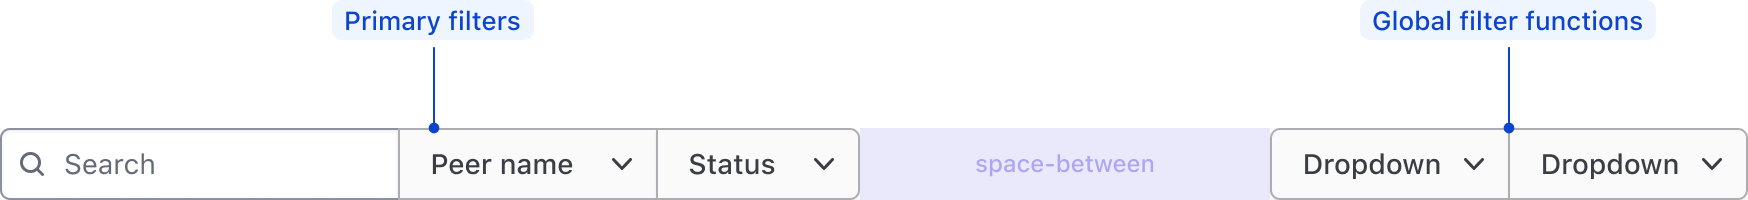
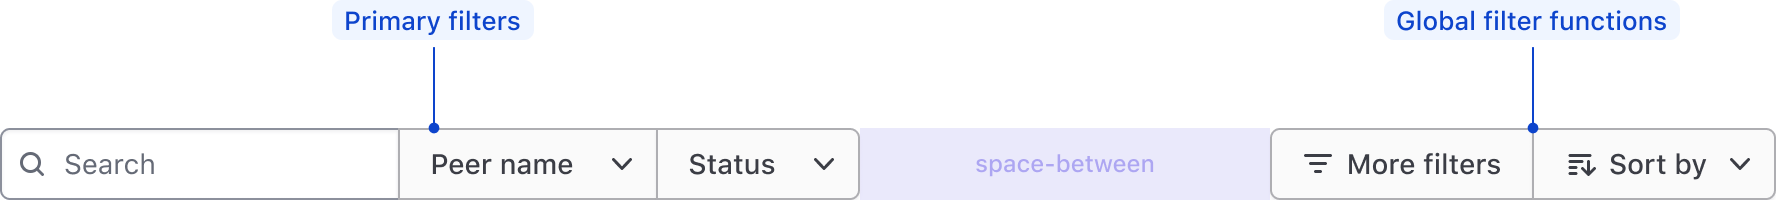
Cleaning up hierarchy and reorganizing

diff --git a/website/docs/patterns/filter-patterns/partials/specifications/specifications.md b/website/docs/patterns/filter-patterns/partials/specifications/specifications.md
@@ -4,7 +4,48 @@ Helios does not publish any components that account for the layout of filter ele
 
 !!!
 
-## Filter bar anatomy
+## Pattern types
+
+Orient filter patterns in either a horizontal filter bar, or a vertical filter sidebar. The core anatomy of a filter pattern remains largely the same regardless of the orientation, layout, or positioning method.
+
+![Filter pattern anatomy](/assets/patterns/filter-patterns/pattern-anatomy-filters.png =1288x*)
+
+| Element | Usage |
+|---------|-------|
+| Filters | Required; can be represented by a filter bar or a filter sidebar. |
+| Applied filters | Required |
+| Data set | Required |
+| Pagination | Optional; recommended for larger data sets. |
+
+### Filter bar orientation
+
+![Filter bar orientation](/assets/patterns/filter-patterns/layout-filter-bar.png =559x*)
+
+The most common method of organizing filters is in a filter bar which orients the filters horiztonally on top of the data set. This orientation is flexible and is commonly used in tandem when a data set is presented in a [Table](/componets/table).
+
+### Filter sidebar orientation
+
+![Filter sidebar at page level](/assets/patterns/filter-patterns/layout-sidebar-left-page-level.png =558x*)
+
+If the page layout supports it, filters can be organized in a filter sidebar at the left (start) of the viewport. This is common when a data set is presented in a grid or the in a non-tabular format.
+
+## Pattern spacing
+
+### Vertical spacing
+
+When spacing elements vertically within the pattern, use a `16px` gap.
+
+![Pattern anatomy](/assets/patterns/filter-patterns/pattern-anatomy-filter-bar-spacing.png =809x*)
+
+### Horizontal spacing
+
+When spacing elements horizontally within the pattern, use a `24px` gap. 
+
+![Pattern anatomy](/assets/patterns/filter-patterns/pattern-anatomy-inline-sidebar-spacing.png =693x*)
+
+## Filter bar
+
+### Filter bar anatomy
 
 ![Pattern anatomy with filter bar](/assets/patterns/filter-patterns/filter-bar-anatomy.png =908x*)
 
@@ -16,7 +57,7 @@ Helios does not publish any components that account for the layout of filter ele
 | [List](/components/dropdown#list) | Required; coupled with the [Dropdown](/components/dropdown), displays filter values that correspond with the parameter in the Dropdown Toggle |
 | Filter functions | Optional; responsible for performing global functions on the data set. |
 
-### Spacing
+### Filter bar spacing
 
 Use a `16px` gap between each filter element or Segmented Group within the filter bar.
 
@@ -32,7 +73,9 @@ Within a filter pattern, stack the filter bar on top of the data set and applied
 
 ![Pattern anatomy with filter bar](/assets/patterns/filter-patterns/pattern-anatomy-filter-bar-spacing.png =809x*)
 
-## Filter sidebar anatomy
+## Filter sidebar
+
+### Filter sidebar anatomy
 
 ![Sidebar anatomy](/assets/patterns/filter-patterns/sidebar-anatomy.png =462x*)
 
@@ -42,7 +85,7 @@ Within a filter pattern, stack the filter bar on top of the data set and applied
 | Filters | Required; dictates what parameters are available to filter upon and the corresponding values. Can be represented by a [Checkbox group](/components/form/checkbox) or [Radio group](/components/form/radio) |
 | Separator | Required to separate multiple filter parameters within a sidebar. |
 
-### Spacing
+### Filter sidebar spacing
 
 Spacing within a filter sidebar extends the guidelines for spacing within a [form pattern](/patterns/form-patterns). Differentiate groups within a sidebar using a [Separator](/components/separator) with a vertical gap of `24px` on the top and bottom of the Separator.
 
@@ -78,7 +121,7 @@ Positioning a filter sidebar in-line with the data set should only be done in ca
 | Tag list | Required; consists of one or more dismissible [Tags](/component/tag) that communicate the specific filter value. |
 | Bulk clear | Required; clear all applied filters with a single bulk action. Use a small [tertiary Button](/components/button) with an icon. |
 
-### Spacing
+### Applied filters Spacing
 
 - Use a `16px` gap between elements in the applied filters.
 - Use a `8px` gap between tags in the tag list. Refer to the [Tag](/components/tag#spacing) spacing guidelines for more details.
@@ -108,44 +151,3 @@ Refer to the [Pagination](/components/pagination) guidelines for details around 
 Within a filter pattern, position Pagination at the bottom of the data set using a `16px` gap between elements and ensure that the Pagination spans the width of the data set.
 
 ![Pattern anatomy with filter bar](/assets/patterns/filter-patterns/pattern-anatomy-pagination-spacing.png =1000x*)
-
-## Pattern anatomy
-
-The core anatomy of a filter pattern remains largely the same regardless of the layout or positioning method, as outlined in these generic examples.
-
-**Vertical layout with a filter bar**
-
-![Pattern anatomy](/assets/patterns/filter-patterns/pattern-anatomy-generic-filter-bar.png =929x*)
-
-**Layout with a filter sidebar**
-
-![Pattern anatomy](/assets/patterns/filter-patterns/pattern-anatomy-generic-sidebar.png =929x*)
-
-| Element | Usage |
-|---------|-------|
-| Filters | Required; can be represented by a filter bar or a filter sidebar. |
-| Applied filters | Required |
-| Data set | Required |
-| Pagination | Optional; recommended for larger data sets. |
-
-### Vertical spacing
-
-When spacing elements vertically within the pattern, use a `16px` gap.
-
-![Pattern anatomy](/assets/patterns/filter-patterns/pattern-anatomy-filter-bar-spacing.png =809x*)
-
-### Horizontal spacing
-
-When spacing elements horizontally within the pattern, use a `24px` gap. 
-
-![Pattern anatomy](/assets/patterns/filter-patterns/pattern-anatomy-inline-sidebar-spacing.png =693x*)
-
-### Layout
-
-Due to the complexity of the pattern and its contributing elements, a filter pattern should occupy the entire width of the page in most circumstances.
-
-![Filter pattern layout page level](/assets/patterns/filter-patterns/pattern-anatomy-layout-full-page.png =660x*)
-
-An exception to this is when the the data set or display method is less complex or the filters are displayed in-line with the data set.
-
-![Filter pattern layout page level](/assets/patterns/filter-patterns/pattern-anatomy-layout-in-line.png =660x*)
